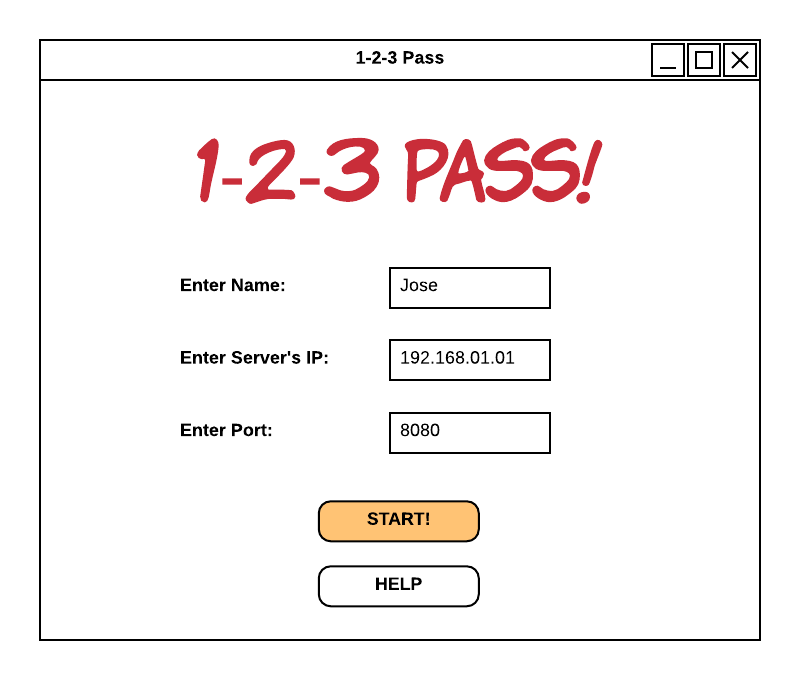
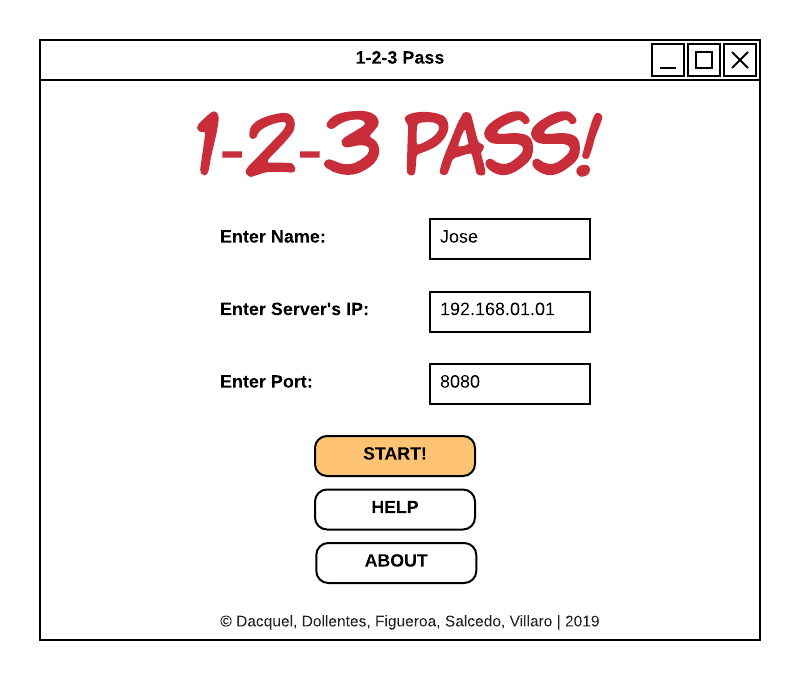
Added new frames for UI

diff --git a/GameFiles/GUI.java b/GameFiles/GUI.java
@@ -14,6 +14,12 @@ public class GUI implements Runnable {
 
 	private JFrame login;
 	private JFrame frame;
+
+	private JFrame help1;
+	private JFrame help2;
+
+	private JFrame about1;
+	private JFrame about2;
 	
 	private JPanel panel;
 	private JPanel panel2;
@@ -33,7 +39,7 @@ public class GUI implements Runnable {
 	private JTextField portId;
 	
 	//===============================CHANGE LATER===================================
-	private final String IMG_FOLDER = "C:/Users/Jeran/Desktop/LEZDODISBOIS/GameFiles/PNG-cards-1.3/";
+	private final String IMG_FOLDER = "PNG-cards-1.3/";
 	//==============================================================================
 //	private final String IMG_FOLDER = "PNG-cards-1.3/";
 	
@@ -42,10 +48,76 @@ public class GUI implements Runnable {
 
 		initLoginWindow();
 		initGameWindow();
+		initHelpWindow();
+		initAboutWindow();
 	}
+
+
+	private void initAboutWindow() {
+		about1 = new JFrame("1-2-3PASS! - CMSC 137 Project");
+		about1.setDefaultCloseOperation(JFrame.EXIT_ON_CLOSE);
+		// Removes title bar; so the close (x) button is not seen
+		Dimension dim = Toolkit.getDefaultToolkit().getScreenSize();
+		about1.setSize(600,400);
+		about1.setResizable(false);
+		about1.setLocation(dim.width/2-login.getSize().width/2, dim.height/2-login.getSize().height/2);
+
+
+		JPanel top = new JPanel();
+		JPanel bottom = new JPanel();
+
+
+		GridLayout helplayout = new GridLayout(2,1,0,10);
+		about1.setLayout(helplayout);
+
+		ImageIcon ins = new ImageIcon("PNG-photos/next.png");
+		JLabel photo1 = new JLabel(ins);
+
+		top.add(photo1);
+		bottom.add(photo1);
+
+
+		about1.getContentPane().add(top);
+		about1.getContentPane().add(bottom);
+		about1.setVisible(false);
+	}
+
+
+	private void initHelpWindow() {
+		help1 = new JFrame("1-2-3-PASS! - CMSC 137 Project");
+	    help1.setDefaultCloseOperation(JFrame.EXIT_ON_CLOSE);
+	    // Removes title bar; so the close (x) button is not seen
+	    Dimension dim = Toolkit.getDefaultToolkit().getScreenSize();
+	    help1.setSize(600,400);
+	    help1.setResizable(false);
+	    help1.setLocation(dim.width/2-login.getSize().width/2, dim.height/2-login.getSize().height/2);
+
+	    JPanel top = new JPanel();
+	    JPanel bottom = new JPanel();
+
+
+
+
+	    GridLayout helplayout = new GridLayout(2,1,0,10);
+	   	help1.setLayout(helplayout);
+
+	   	ImageIcon ins = new ImageIcon("PNG-photos/next.png");
+	   	JLabel photo1 = new JLabel(ins);
+
+	   	top.add(photo1);
+	   	bottom.add(photo1);
+
+
+	   	help1.getContentPane().add(top);
+	   	help1.getContentPane().add(bottom);
+	   	help1.setVisible(false);
+	}
+
+
+
 	
 	private void initLoginWindow() {
-		login = new JFrame("Login");
+		login = new JFrame("1-2-3PASS! - CMSC 137 Project");
         login.setDefaultCloseOperation(JFrame.EXIT_ON_CLOSE);
         // Removes title bar; so the close (x) button is not seen
         Dimension dim = Toolkit.getDefaultToolkit().getScreenSize();
@@ -68,30 +140,45 @@ public class GUI implements Runnable {
         
         GridLayout credsLayout = new GridLayout(3,2,0,10);
         creds.setLayout(credsLayout);
-        JTextField test1 = new JTextField();
-        JTextField test2 = new JTextField();
-        JTextField test3 = new JTextField();
-        JTextField test4 = new JTextField();
-        JTextField test5 = new JTextField();
-        JTextField test6 = new JTextField();
-        test1.setText("NAME: ");
-        test3.setText("SERVER ID: ");
-        test5.setText("PORT ID: ");
 
-        GridLayout buttonlayout = new GridLayout(2,1,0,10);
+
+        JLabel name = new JLabel();
+        name.setText("NAME: ");
+        name.setHorizontalAlignment(JLabel.CENTER);
+
+
+        JLabel server = new JLabel();
+        server.setText("SERVER ID: ");
+       	server.setHorizontalAlignment(JLabel.CENTER);
+
+
+        JLabel port = new JLabel();
+        port.setText("PORT ID: ");
+        port.setHorizontalAlignment(JLabel.CENTER);
+
+
+        JTextField namefield = new JTextField();
+        JTextField serverfield = new JTextField();
+        JTextField portfield = new JTextField();
+
+
+        GridLayout buttonlayout = new GridLayout(3,1,0,10);
         buttons.setLayout(buttonlayout);
         JButton start = new JButton("START!");
         JButton about = new JButton("ABOUT");
-       
-        creds.add(test1);
-        creds.add(test2);
-        creds.add(test3);
-        creds.add(test4);
-        creds.add(test5);
-        creds.add(test6);
+        JButton help = new JButton("HELP");
+
+
+        creds.add(name);
+        creds.add(namefield);
+        creds.add(server);
+        creds.add(serverfield);
+        creds.add(port);
+        creds.add(portfield);
 
         buttons.add(start);
         buttons.add(about);
+        buttons.add(help);
 
         mainlog.add(gametitle);
         mainlog.add(creds);
@@ -104,22 +191,35 @@ public class GUI implements Runnable {
         start.addActionListener(new ActionListener() {
             public void actionPerformed(ActionEvent e) {
             	listener.startGame(
-            			test2.getText().equals("") ?
+            			namefield.getText().equals("") ?
             					"DEFAULT_PLAYER_NAME" :
-            					test2.getText(),
-    					test4.getText().equals("") ?
+            					namefield.getText(),
+    					serverfield.getText().equals("") ?
             					"localhost" :
-            					test4.getText(),
-            			test6.getText().equals("") ?
+            					serverfield.getText(),
+            			portfield.getText().equals("") ?
             					"1234" :
-            					test6.getText()
+            					portfield.getText()
             	);
-              }
-          });
+            }
+        });
+
+        help.addActionListener(new ActionListener() {
+            public void actionPerformed(ActionEvent e) {
+            	listener.openHelp();
+            }
+        });
+
+
+        about.addActionListener(new ActionListener() {
+            public void actionPerformed(ActionEvent e) {
+            	listener.openAbout();
+            }
+        });
 	}
 	
 	private void initGameWindow() {
-		frame = new JFrame("1-2-3-PASS!");
+		frame = new JFrame("1-2-3PASS! - CMSC 137 Project");
 		frame.setDefaultCloseOperation(JFrame.EXIT_ON_CLOSE);
         // Removes title bar; so the close (x) button is not seen
         Dimension dim = Toolkit.getDefaultToolkit().getScreenSize();
@@ -402,5 +502,17 @@ public class GUI implements Runnable {
 	public void returnToLogin() {
 		frame.setVisible(false);
 		login.setVisible(true);
+	}
+
+
+	public void openHelp() {
+		login.setVisible(false);
+		help1.setVisible(true);
+	}
+
+
+	public void openAbout() {
+		login.setVisible(false);
+		about1.setVisible(true);
 	}
 }

diff --git a/GameFiles/ClientController.java b/GameFiles/ClientController.java
@@ -61,6 +61,17 @@ public class ClientController implements ViewListener, HandlerListener {
 		new Thread(new ClientSignalHandler(socket, this)).start();
 	}
 
+
+	@Override
+	public void openHelp() {
+		mainWindow.openHelp();
+	}
+
+	@Override
+	public void openAbout() {
+		mainWindow.openAbout();
+	}
+
 	@Override
 	public void startGame(String playerName, String serverAddress, String portNumber) {
 		this.playerName = playerName;

diff --git a/GameFiles/ViewListener.java b/GameFiles/ViewListener.java
@@ -7,6 +7,13 @@ public interface ViewListener {
 
 	void shuffle();
 
+	
+	void openHelp();
+
+
+	void openAbout();
+
+
 	void startGame(String playerName, String serverAddress, String portNumber);
 
 	void returnToLogIn();
